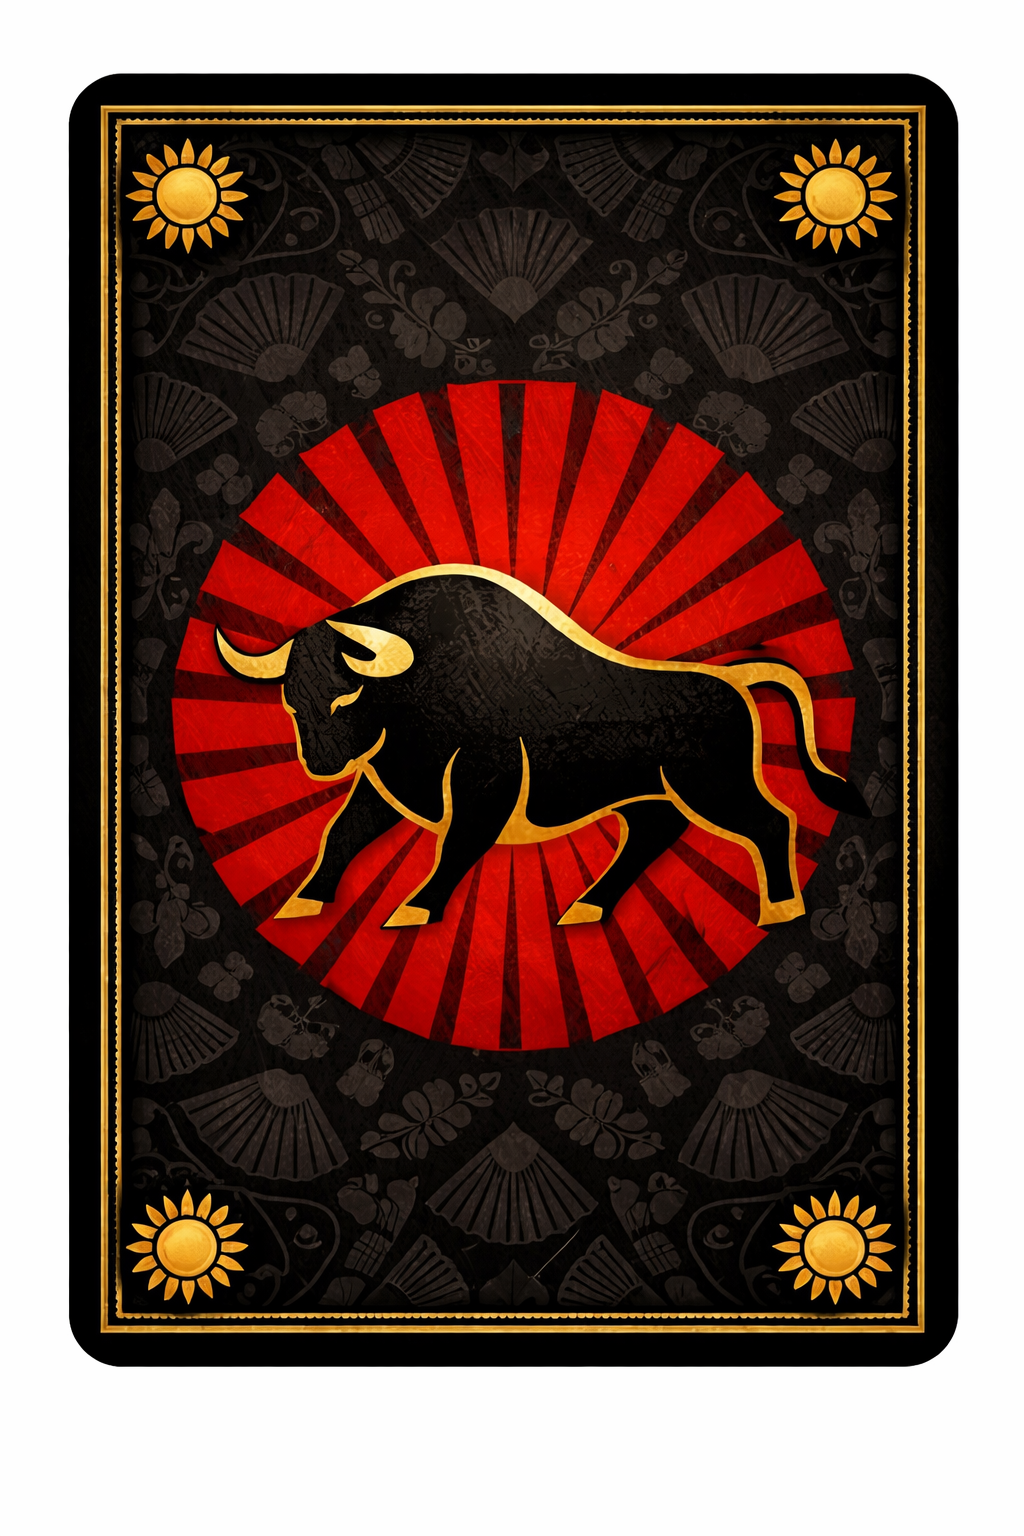
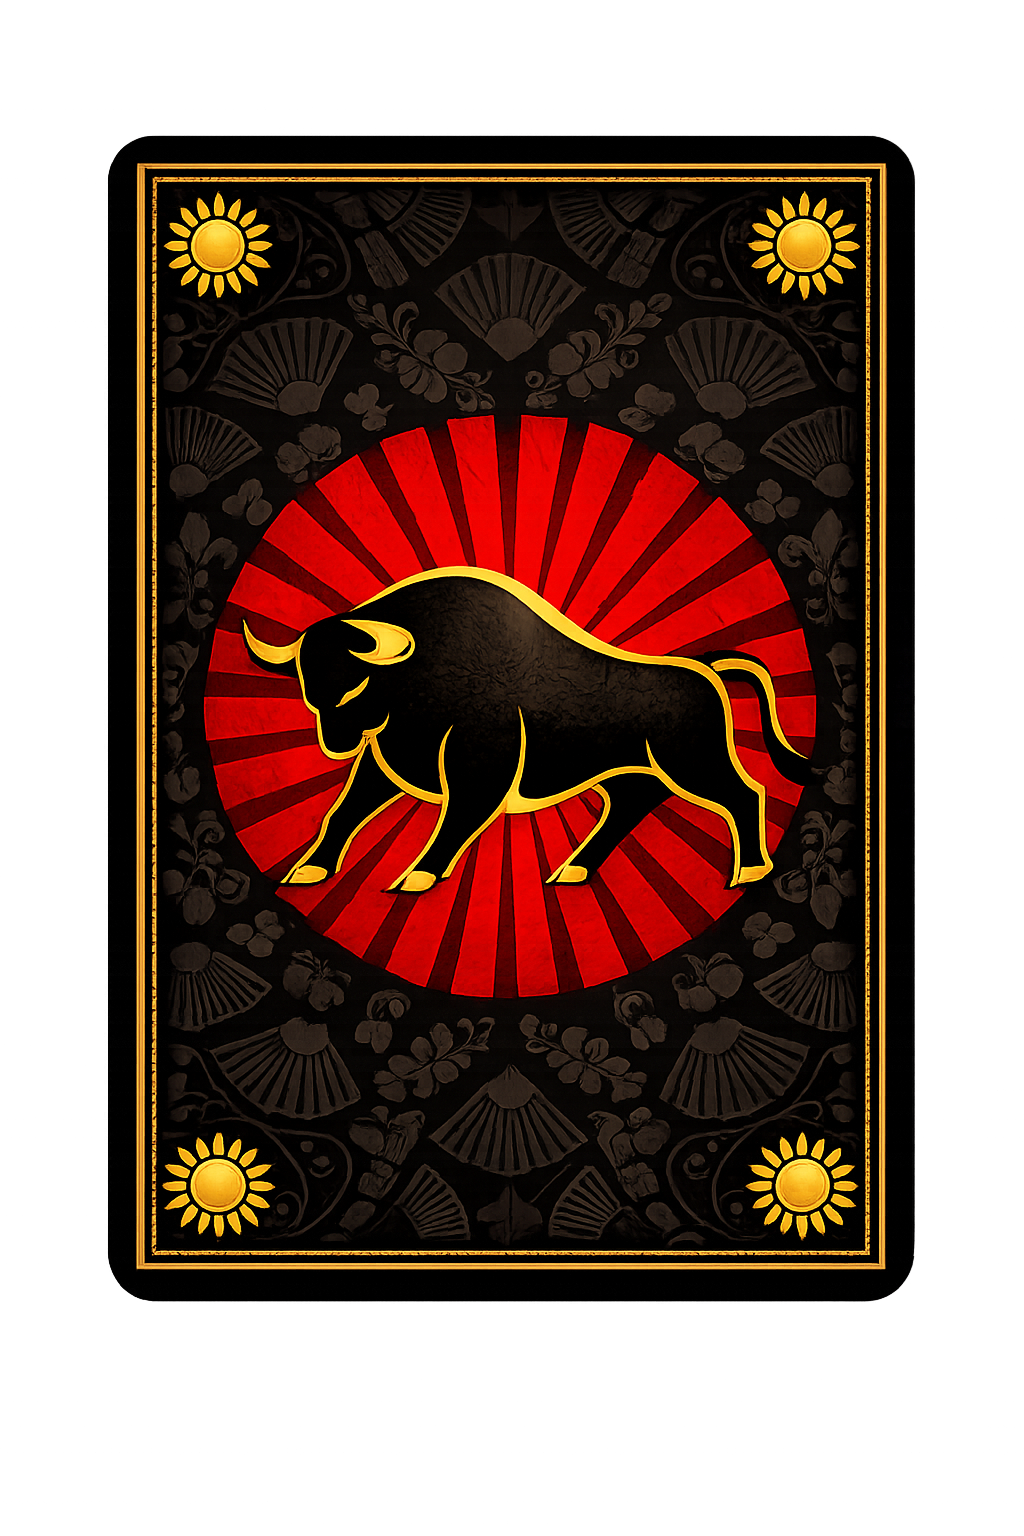
Use bull back art for all face-down cards
Made-with: Cursor

diff --git a/client/src/components/Card.css b/client/src/components/Card.css
@@ -75,21 +75,18 @@
 }
 
 .card-back {
-  background: linear-gradient(135deg, var(--gold-dim) 0%, var(--gold) 50%, var(--gold-dim) 100%);
-  border: 2px solid rgba(0,0,0,0.2);
+  background: #000;
+  border: 2px solid var(--gold);
+  overflow: hidden;
 }
 
 .card-back-pattern {
   width: 100%;
   height: 100%;
   border-radius: calc(var(--card-radius) - 2px);
-  background: repeating-linear-gradient(
-    45deg,
-    transparent,
-    transparent 4px,
-    rgba(0,0,0,0.08) 4px,
-    rgba(0,0,0,0.08) 8px
-  );
+  background-image: url('/bull-back.png');
+  background-size: cover;
+  background-position: center;
 }
 
 /* Sizes */
